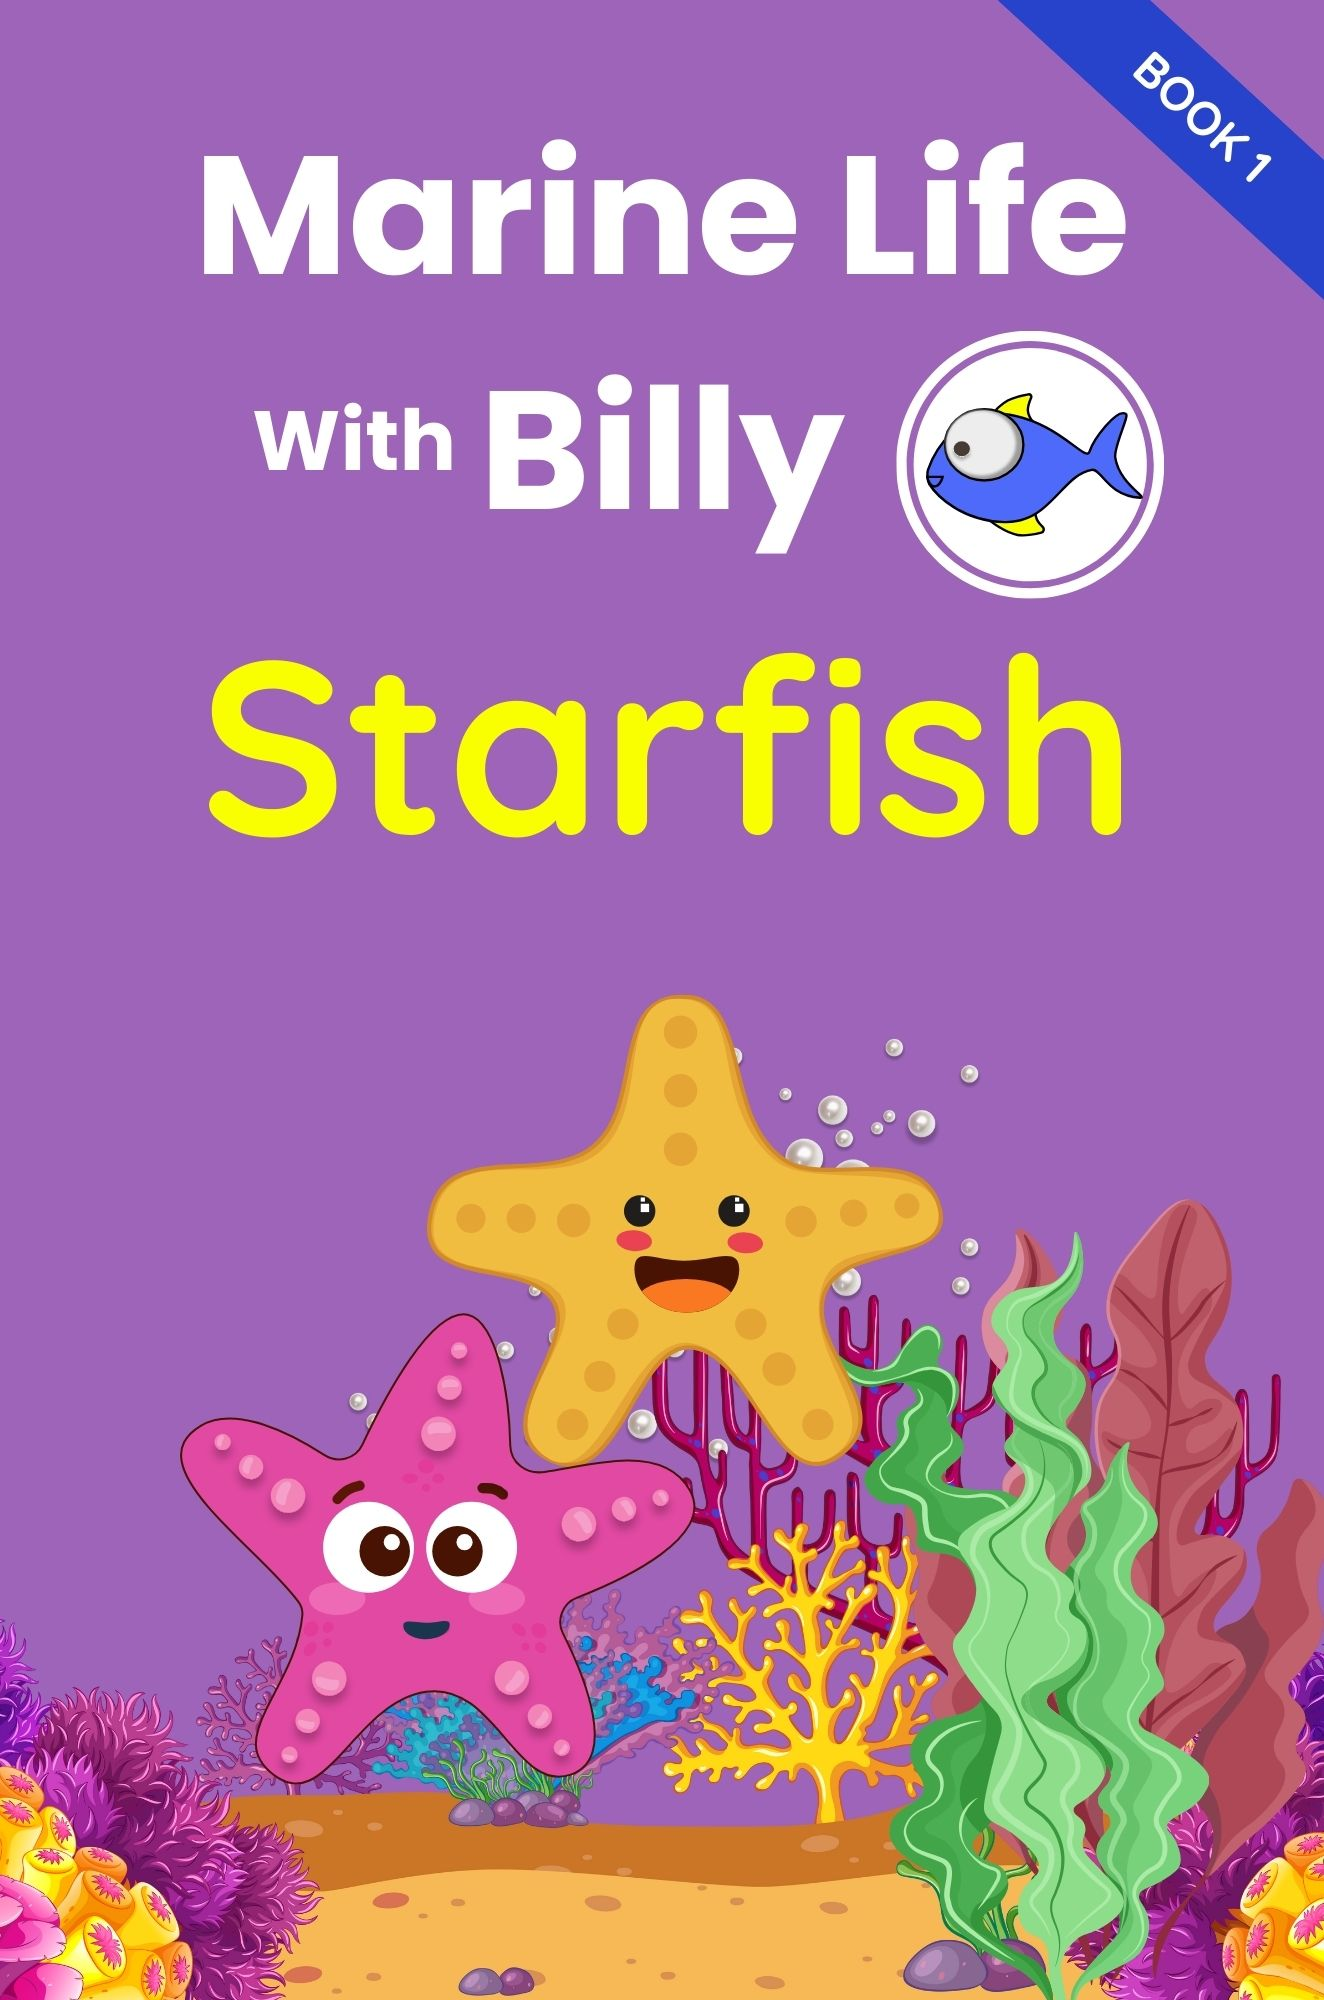
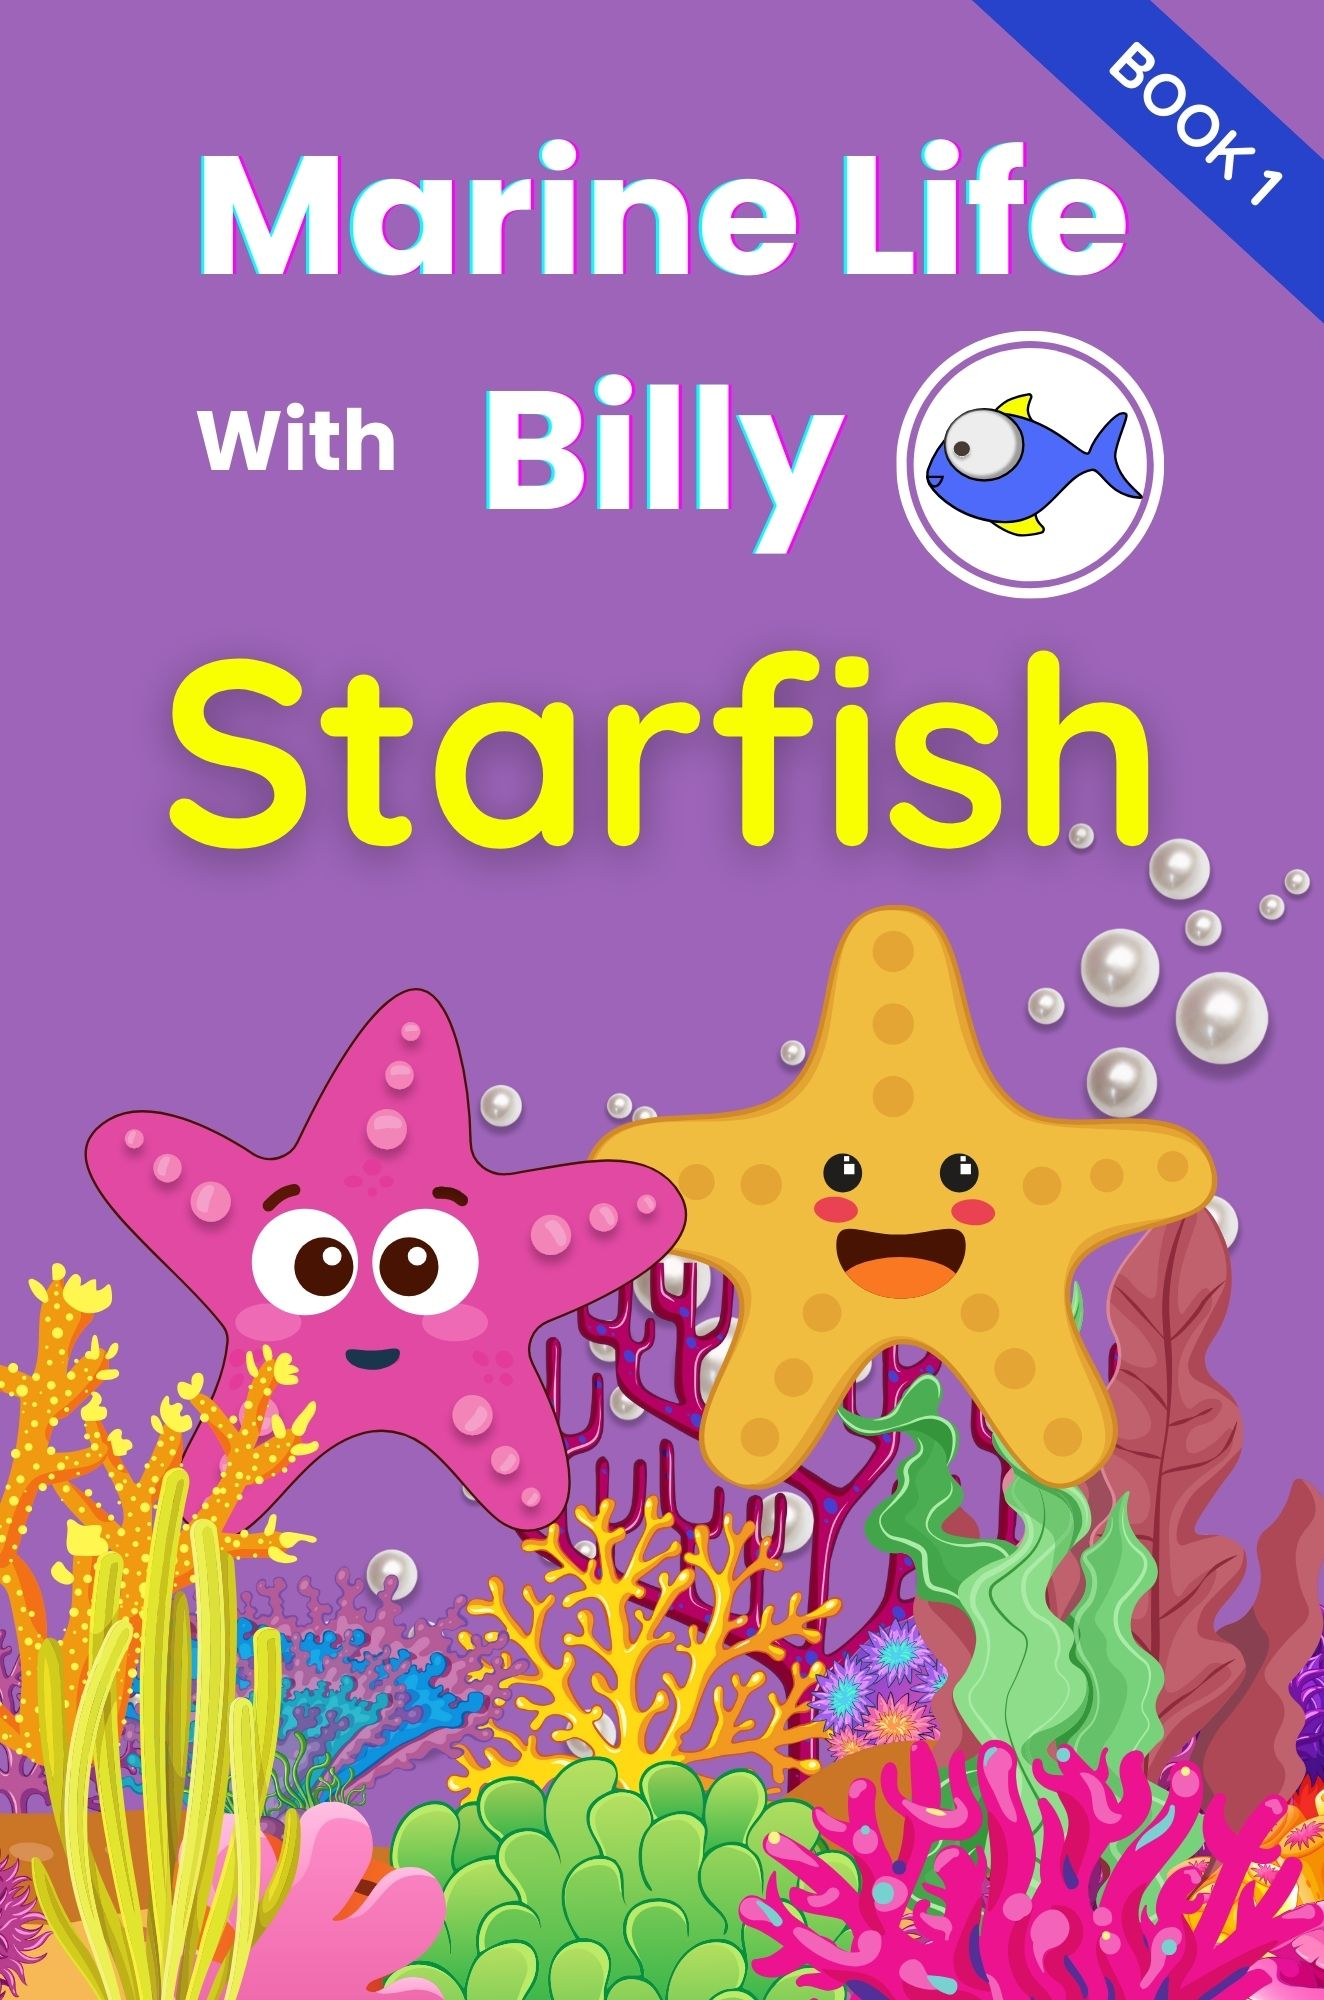
update new squad books

diff --git a/constants/index.ts b/constants/index.ts
@@ -26,43 +26,32 @@ export const headerLinks = [
 export const allbooks = [
   {
     id: '001',
-    name: 'Shelly and Spike The Tale of Starfish Adventure and Friendship Book 1',
-    image: 'shellyandspikebook1.jpg',
-    slugId: 'shellyandspikebook1',
-    shortdescription: 'The Tale of Starfish Adventure and Friendship Book 1',
+    name: 'Starfish Super Squad Book 1 - A Mystery Map',
+    image: 'starfishsupersquadbook1.jpg',
+    slugId: 'starfishsupersquadbook1',
+    shortdescription: 'Starfish Super Squad Book 1 - A Mystery Map',
     description:
-      'Dive into an enchanting undersea adventure with Shelly and Spike, two starfish friends with contrasting personalities! Join Shelly, the cautious pink starfish, and Spike, the adventurous yellow starfish, as they embark on a thrilling treasure hunt guided by a mysterious map.',
+      "Dive into an Underwater Adventure with the Starfish Super Squad!Starfish Super Squad: A Treasure Map Adventure (Book 1 of the Treasure Map Adventure Series) is a captivating read-aloud children's book bursting with vibrant and colorful illustrations. This exciting story is a perfect picture book for kindergarten, first, and second graders, fostering a love for reading while introducing ocean animals, teamwork, problem-solving, and the wonders of the ocean world. It's a wonderful addition to any bedtime story collection and a must-have for young readers",
+
     longdescription: [
-      "This isn't just a fun-filled adventure; it's also an educational journey. As Shelly and Spike navigate their underwater world, children will learn interesting facts about marine life, sparking curiosity and a love for the ocean. The book's language is playful and engaging, while the illustrations bring the underwater world to life with vibrant colors and charming details.",
-      "But the adventure doesn't end there! The book concludes with a thrilling cliffhanger, leaving your child eager to dive into Book 2. This mini series provides a natural progression for young readers, allowing them to continue their undersea escapade with their newfound friends.",
+      "Join Shelly, the shy pink starfish, and Spike, the adventurous bumpy yellow starfish, as they embark on their first thrilling adventure in the Treasure Map Adventure Series!. This book not only entertains but also educates children about marine life and environmental conservation.Ideal for birthdays, holidays, or any special occasion, making it a treasured addition to any child's library.",
     ],
     ages: '5-8 years',
     bookType: 'series',
-    seriesname: 'Shelly and Spike',
+    seriesname: 'Treasure Map Adventures',
     serieslink: 'shellyandspike',
     available: 'yes',
     buylinks: [
       {
-        buyname: 'Buy Ebook (AU Edition)',
-        buylink: 'https://www.amazon.com.au/dp/B0CVR8MSRT',
-      },
-
-      {
         buyname: 'Buy Ebook',
-        buylink: 'https://www.amazon.com/dp/B0CVRPHN1Y',
-      },
-      {
-        buyname: 'Buy Paperback (AU Edition)',
-        buylink:
-          'https://www.amazon.com.au/Shelly-Spike-Starfish-Adventure-Friendship/dp/B0CVSNJSX1/',
+        buylink: 'https://www.amazon.com/dp/B0D7VF9GQ2/',
       },
       {
         buyname: 'Buy Paperback',
-        buylink:
-          'https://www.amazon.com/Shelly-Spike-Starfish-Adventure-Friendship/dp/B0CVSLH2RN/',
+        buylink: 'https://www.amazon.com/dp/B0D7VZ7ZZZ/',
       },
     ],
-    sample: 'https://heyzine.com/flip-book/e88f5dd3fa.html',
+    sample: 'https://heyzine.com/flip-book/a2ff8d113f.html',
   },
   {
     id: '002',
@@ -103,7 +92,7 @@ export const allbooks = [
       },
     ],
 
-    sample: 'https://heyzine.com/flip-book/5a76bfc07c.html',
+    sample: 'https://heyzine.com/flip-book/32fc0933ac.html',
   },
   {
     id: '003',
@@ -120,10 +109,21 @@ export const allbooks = [
     ],
     ages: '4-8 years',
     bookType: 'series',
-    available: '7-MAY-2024',
+    available: 'yes',
     ebookurl: '',
     paperbackurl: '',
     sample: 'https://heyzine.com/flip-book/06abc85b4f.html',
+    buylinks: [
+      {
+        buyname: 'Buy Ebook',
+        buylink: 'https://www.amazon.com/dp/B0D35HBHC4/',
+      },
+      {
+        buyname: 'Buy Paperback',
+        buylink:
+          'https://www.amazon.com/Buzzy-Bee-Triumph-First-School/dp/B0D36B6ZF7/',
+      },
+    ],
   },
   {
     id: '004',
@@ -169,7 +169,7 @@ export const allbooks = [
     id: '005',
     name: 'Sparky - The Adventures of Sparky the Squirrel: A Tale of Self-Worth',
     shortname: 'Sparky',
-    image: 'sparky.png',
+    image: 'sparky.jpg',
     seriesname: '',
     slugId: 'sparky',
     shortdescription:
@@ -205,77 +205,6 @@ export const allbooks = [
           'https://www.amazon.com/Adventures-Sparky-Squirrel-Tale-Self-Worth/dp/B0CQTTBGCL/',
       },
     ],
-    sample: '',
-  },
-  {
-    id: '006',
-    name: 'Shelly and Spike The Tale of Starfish Adventure and Friendship Book 2',
-    image: 'shellyandspikebook2.jpg',
-    slugId: 'shellyandspikebook2',
-    shortdescription: 'The Tale of Starfish Adventure and Friendship Book 2',
-    description:
-      "Join Shelly, the cautious pink starfish, and Spike, the bubbly yellow explorer, as they embark on a new quest following their super special treasure map! They're headed to the mysterious Deep Sea of Stingrays on the back of Windy, a friendly whale shark. But their journey isn't all smooth sailing.",
-    longdescription: [
-      "Packed with exciting adventures, heartwarming moments, and valuable lessons, Shelly & Spike. The Tales of Starfish Adventure and Friendship Book 2 is sure to captivate young readers! It's the perfect blend of thrilling exploration, unbreakable friendship, gentle environmental message, non-stop excitement and series continuity.",
-      "Don't let Shelly & Spike explore the undersea world alone! Get your copy today and join them on a journey filled with laughter, friendship, and unforgettable discoveries!",
-    ],
-    ages: '5-8 years',
-    bookType: 'series',
-    seriesname: 'Shelly and Spike',
-    serieslink: 'shellyandspike',
-    available: 'yes',
-    sample: 'https://heyzine.com/flip-book/21e00b29d4.html',
-    buylinks: [
-      {
-        buyname: 'Buy Ebook',
-        buylink: 'https://www.amazon.com/dp/B0CYYH72BD',
-      },
-      {
-        buyname: 'Buy Paperback',
-        buylink: 'https://www.amazon.com/dp/B0CYY2J43H',
-      },
-    ],
-  },
-  {
-    id: '007',
-    name: 'Marine Life With Billy Book 2',
-    image: 'billybook2.jpg',
-    seriesname: 'Billy',
-    serieslink: 'billy',
-    slugId: 'billybook2',
-    shortdescription: 'Marine Life With Billy Book 2',
-    description:
-      'Dive into the amazing world of whale sharks with Billy the Blue Fish, your friendly guide to undersea adventures! Marine Life with Billy Book 2: Whale shark is the perfect blend of fun storytelling and fascinating facts, designed to spark a love for our oceans in young readers.',
-    longdescription: [
-      'Join Billy as he introduces you to Windy, the whale shark, with incredible stories to tell.',
-      "This charming book goes beyond just whale shark, offering a glimpse into the wonders of the entire ocean ecosystem.Each page is bursting with colorful illustrations that bring the underwater world to life, igniting your child's imagination and curiosity.",
-    ],
-    ages: '5-8 years',
-    bookType: 'series',
-    available: '30-APR-2024',
-    ebookurl: '',
-    paperbackurl: '',
-    sample: '',
-  },
-  {
-    id: '007',
-    name: 'Marine Life With Billy Book 3',
-    image: 'billybook3.jpg',
-    seriesname: 'Billy',
-    serieslink: 'billy',
-    slugId: 'billybook3',
-    shortdescription: 'Marine Life With Billy Book 3',
-    description:
-      'Dive into the amazing world of urchins with Billy the Blue Fish, your friendly guide to undersea adventures! Marine Life with Billy Book 3: Uchin is the perfect blend of fun storytelling and fascinating facts, designed to spark a love for our oceans in young readers.',
-    longdescription: [
-      'Join Billy as he introduces you to Uma, the urchin with incredible stories to tell.',
-      "This charming book goes beyond just urchin, offering a glimpse into the wonders of the entire ocean ecosystem.Each page is bursting with colorful illustrations that bring the underwater world to life, igniting your child's imagination and curiosity.",
-    ],
-    ages: '5-8 years',
-    bookType: 'series',
-    available: '25-JUNE-2024',
-    ebookurl: '',
-    paperbackurl: '',
     sample: '',
   },
 ];

diff --git a/app/(marketing)/series/page.tsx b/app/(marketing)/series/page.tsx
@@ -59,7 +59,7 @@ export default function AllSeriesPage() {
           </div>
 
           <div id='shellyandspike' className='mt-6'>
-            <AllSeriesCard name='Shelly and Spike' />
+            <AllSeriesCard name='Treasure Map Adventures' />
           </div>
           <div id='billy' className='mt-6'>
             <AllSeriesCard name='Billy' />
